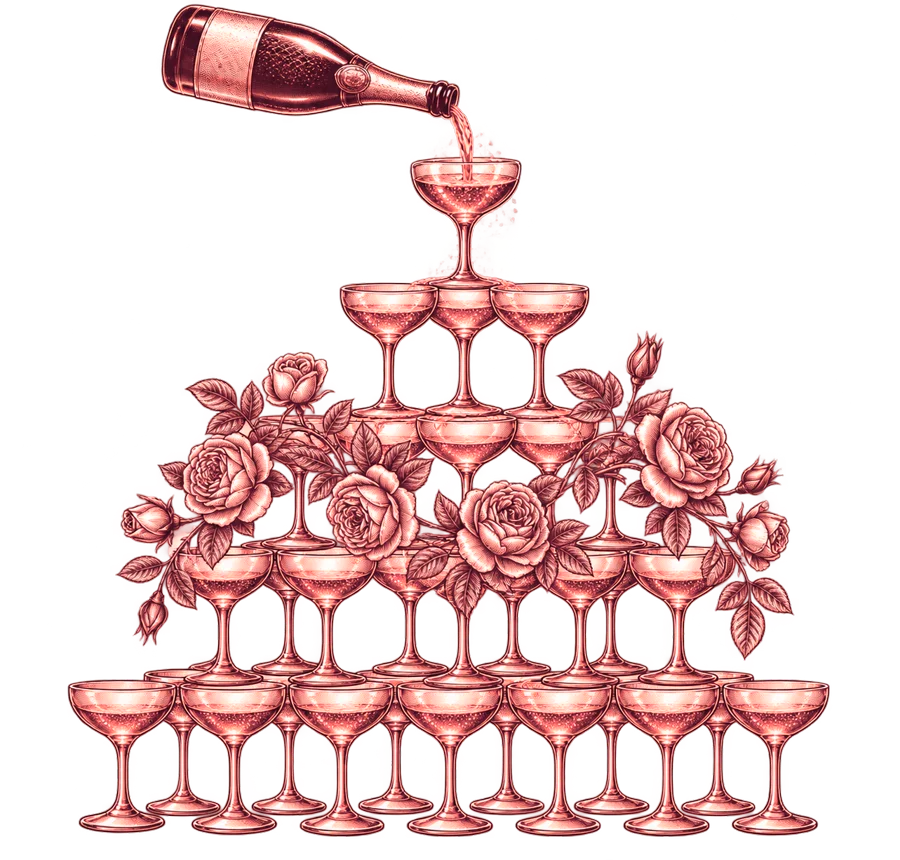
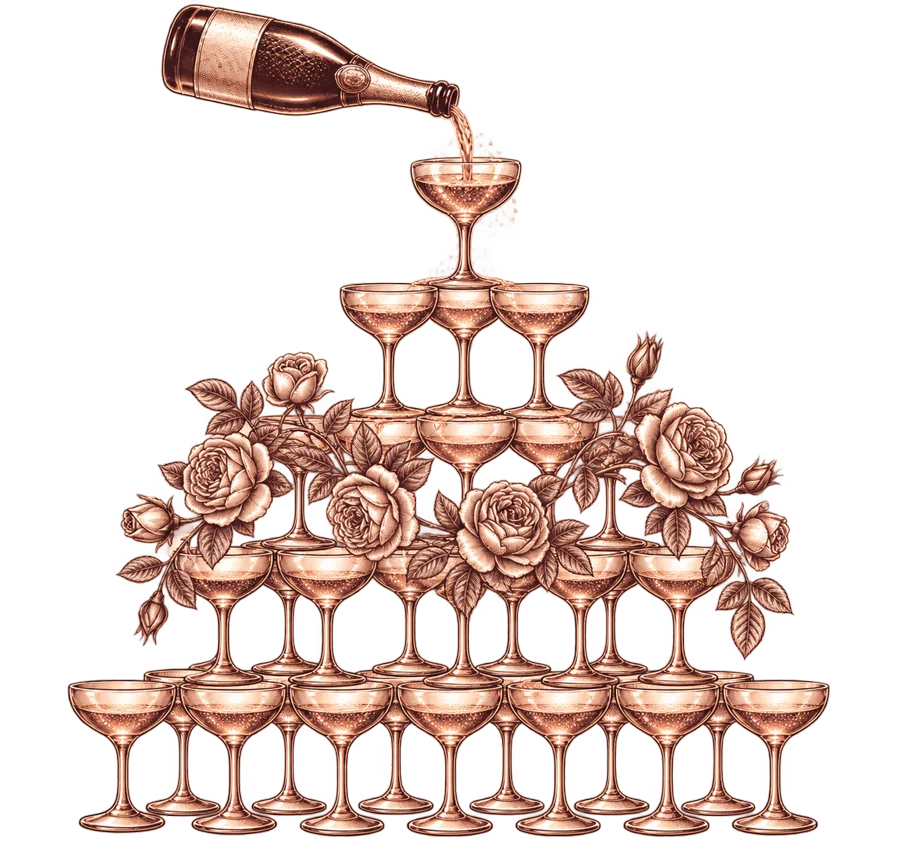
Shift invitation palette to ivory with warm rose gold accents
Replace peach-pink backgrounds with ivory and champagne, warm up the
rose gold accent, and re-tint decor drawings to a less pink rose gold.

diff --git a/src/components/CoupleDetails.tsx b/src/components/CoupleDetails.tsx
@@ -52,7 +52,7 @@ export const CoupleDetails: React.FC = () => {
           </div>
 
           <div className="mb-4 flex flex-col items-center lg:items-end relative z-10">
-            <span className="text-[#9A5B62] uppercase tracking-[0.4em] text-[10px] font-bold mb-3 block">The Groom</span>
+            <span className="text-[#8C6455] uppercase tracking-[0.4em] text-[10px] font-bold mb-3 block">The Groom</span>
             <h3 className="text-4xl sm:text-5xl font-['Cormorant_Garamond',_serif] text-stone-800 mb-2 drop-shadow-sm">Bhagya</h3>
             <p className="text-stone-700 font-century text-xs mb-2"></p>
             <p className="text-stone-500/90 font-serif italic text-base sm:text-lg">Loving Son of Mr. B.P. Keerthirathna &amp; Mrs. Kumudini Piyadigama</p>
@@ -77,7 +77,7 @@ export const CoupleDetails: React.FC = () => {
             {/* Top Left - Arch top */}
             <motion.div 
               whileHover={{ scale: 1.05, rotate: -2, zIndex: 10 }}
-              className="relative w-full h-full rounded-t-full rounded-bl-3xl rounded-br-lg overflow-hidden shadow-[0_15px_30px_rgba(183,110,121,0.2)] border-[3px] border-white transform transition-all duration-500"
+              className="relative w-full h-full rounded-t-full rounded-bl-3xl rounded-br-lg overflow-hidden shadow-[0_15px_30px_rgba(181,128,111,0.2)] border-[3px] border-white transform transition-all duration-500"
             >
               <img src="/pre/WhatsApp Image 2026-10-15 at 09.35.11.jpeg" alt="Couple" className="absolute inset-0 w-full h-full object-cover" />
               <div className="absolute inset-0 bg-brand-plum/10 mix-blend-overlay"></div>
@@ -86,7 +86,7 @@ export const CoupleDetails: React.FC = () => {
             {/* Top Right - Offset down slightly */}
             <motion.div 
               whileHover={{ scale: 1.05, rotate: 2, zIndex: 10 }}
-              className="relative w-full h-full rounded-t-full rounded-br-3xl rounded-bl-lg overflow-hidden shadow-[0_15px_30px_rgba(183,110,121,0.2)] border-[3px] border-white transform translate-y-6 sm:translate-y-8 transition-all duration-500"
+              className="relative w-full h-full rounded-t-full rounded-br-3xl rounded-bl-lg overflow-hidden shadow-[0_15px_30px_rgba(181,128,111,0.2)] border-[3px] border-white transform translate-y-6 sm:translate-y-8 transition-all duration-500"
             >
               <img src="/pre/WhatsApp Image 2026-10-15 at 18.49.44.jpeg" alt="Couple" className="absolute inset-0 w-full h-full object-cover" />
               <div className="absolute inset-0 bg-brand-plum/10 mix-blend-overlay"></div>
@@ -95,7 +95,7 @@ export const CoupleDetails: React.FC = () => {
             {/* Bottom Left - Arch bottom */}
             <motion.div 
               whileHover={{ scale: 1.05, rotate: -1, zIndex: 10 }}
-              className="relative w-full h-full rounded-b-full rounded-tl-3xl rounded-tr-lg overflow-hidden shadow-[0_15px_30px_rgba(183,110,121,0.2)] border-[3px] border-white transform -translate-y-4 sm:-translate-y-6 transition-all duration-500"
+              className="relative w-full h-full rounded-b-full rounded-tl-3xl rounded-tr-lg overflow-hidden shadow-[0_15px_30px_rgba(181,128,111,0.2)] border-[3px] border-white transform -translate-y-4 sm:-translate-y-6 transition-all duration-500"
             >
               <img src="/pre/WhatsApp Image 2026-10-16 at 22.20.27 (1).jpeg" alt="Couple" className="absolute inset-0 w-full h-full object-cover" />
               <div className="absolute inset-0 bg-brand-plum/10 mix-blend-overlay"></div>
@@ -104,7 +104,7 @@ export const CoupleDetails: React.FC = () => {
             {/* Bottom Right - Arch bottom */}
             <motion.div 
               whileHover={{ scale: 1.05, rotate: 3, zIndex: 10 }}
-              className="relative w-full h-full rounded-b-full rounded-tr-3xl rounded-tl-lg overflow-hidden shadow-[0_15px_30px_rgba(183,110,121,0.2)] border-[3px] border-white transform transition-all duration-500"
+              className="relative w-full h-full rounded-b-full rounded-tr-3xl rounded-tl-lg overflow-hidden shadow-[0_15px_30px_rgba(181,128,111,0.2)] border-[3px] border-white transform transition-all duration-500"
             >
               <img src="/pre/WhatsApp Image 2026-10-16 at 22.20.27.jpeg" alt="Couple" className="absolute inset-0 w-full h-full object-cover" />
               <div className="absolute inset-0 bg-brand-plum/10 mix-blend-overlay"></div>
@@ -125,7 +125,7 @@ export const CoupleDetails: React.FC = () => {
           className="text-center lg:text-left flex-1 lg:pl-10 order-2 lg:order-3"
         >
           <div className="mb-4 flex flex-col items-center lg:items-start">
-            <span className="text-[#9A5B62] uppercase tracking-[0.4em] text-[10px] font-bold mb-3 block mt-28 sm:mt-36 lg:mt-0">The Bride</span>
+            <span className="text-[#8C6455] uppercase tracking-[0.4em] text-[10px] font-bold mb-3 block mt-28 sm:mt-36 lg:mt-0">The Bride</span>
             <h3 className="text-4xl sm:text-5xl font-['Cormorant_Garamond',_serif] text-stone-800 mb-2 drop-shadow-sm">Ishanka</h3>
             <p className="text-stone-700 font-century text-xs mb-2"></p>
             <p className="text-stone-500/90 font-serif italic text-base sm:text-lg">Loving Daughter of Mr. Lal Seelawansha &amp; Mrs. Sandhya Amarathunga</p>

diff --git a/src/index.css b/src/index.css
@@ -3,16 +3,16 @@
 
 @theme {
   /* Ivory / Rose Gold / Peach Color Palette */
-  --color-brand-plum: #B76E79;
-  --color-brand-lavender: #F2C4A8;
-  --color-brand-rose: #FBE2D2;
+  --color-brand-plum: #B5806F;
+  --color-brand-lavender: #E6D3BC;
+  --color-brand-rose: #F6EEE0;
   --color-brand-blush: #FFFBF3;
 
   --color-ivory: #FFFBF3;
   --color-champagne: #F7EADF;
-  --color-peach: #F6CDB5;
-  --color-rose-gold: #B76E79;
-  --color-rose-gold-deep: #8E4F58;
+  --color-peach: #F3D9C4;
+  --color-rose-gold: #B5806F;
+  --color-rose-gold-deep: #8C5A4F;
 
   --font-serif: "Cormorant Garamond", serif;
   --font-display: "Great Vibes", cursive;
@@ -74,14 +74,14 @@ img {
 /* Soft paper-like ivory with faint peach light at the edges */
 body {
   background:
-    radial-gradient(1200px 600px at 0% 0%, rgba(246, 205, 181, 0.18), transparent 60%),
-    radial-gradient(1000px 600px at 100% 100%, rgba(183, 110, 121, 0.10), transparent 60%),
+    radial-gradient(1200px 600px at 0% 0%, rgba(236, 220, 196, 0.25), transparent 60%),
+    radial-gradient(1000px 600px at 100% 100%, rgba(214, 190, 160, 0.12), transparent 60%),
     var(--color-ivory);
 }
 
 /* Metallic rose gold text, slowly catching the light */
 .text-rose-gold {
-  background: linear-gradient(110deg, #8E4F58 0%, #B76E79 25%, #E8B4A0 45%, #F6D5C4 50%, #E8B4A0 55%, #B76E79 75%, #8E4F58 100%);
+  background: linear-gradient(110deg, #8C5A4F 0%, #B5806F 25%, #E6C2A6 45%, #F3E2CC 50%, #E6C2A6 55%, #B5806F 75%, #8C5A4F 100%);
   background-size: 250% 100%;
   -webkit-background-clip: text;
   background-clip: text;
@@ -109,25 +109,25 @@ body {
   content: "";
   flex: 1;
   height: 1px;
-  background: linear-gradient(90deg, transparent, rgba(183, 110, 121, 0.7));
+  background: linear-gradient(90deg, transparent, rgba(181, 128, 111, 0.7));
 }
 .rg-divider::after {
-  background: linear-gradient(270deg, transparent, rgba(183, 110, 121, 0.7));
+  background: linear-gradient(270deg, transparent, rgba(181, 128, 111, 0.7));
 }
 .rg-divider > span {
   width: 7px;
   height: 7px;
   transform: rotate(45deg);
-  background: linear-gradient(135deg, #E8B4A0, #B76E79);
-  box-shadow: 0 0 0 4px rgba(246, 205, 181, 0.35);
+  background: linear-gradient(135deg, #E6C2A6, #B5806F);
+  box-shadow: 0 0 0 4px rgba(236, 220, 196, 0.6);
 }
 
 /* Card with a fine rose gold gradient border */
 .rg-card {
   position: relative;
-  background: linear-gradient(180deg, rgba(255, 251, 243, 0.95), rgba(251, 226, 210, 0.55));
+  background: linear-gradient(180deg, rgba(255, 251, 243, 0.95), rgba(246, 238, 224, 0.7));
   border-radius: 1.25rem;
-  box-shadow: 0 18px 40px -18px rgba(142, 79, 88, 0.35);
+  box-shadow: 0 18px 40px -18px rgba(140, 90, 79, 0.35);
 }
 .rg-card::before {
   content: "";
@@ -135,7 +135,7 @@ body {
   inset: 0;
   border-radius: inherit;
   padding: 1px;
-  background: linear-gradient(135deg, #F6D5C4, #B76E79 40%, #F6CDB5 60%, #8E4F58);
+  background: linear-gradient(135deg, #F3E2CC, #B5806F 40%, #EAD5BE 60%, #8C5A4F);
   -webkit-mask: linear-gradient(#000 0 0) content-box, linear-gradient(#000 0 0);
   -webkit-mask-composite: xor;
   mask-composite: exclude;
@@ -144,9 +144,9 @@ body {
 
 /* Rose gold pill button */
 .rg-button {
-  background: linear-gradient(135deg, #8E4F58 0%, #B76E79 45%, #D49A8F 100%);
+  background: linear-gradient(135deg, #8C5A4F 0%, #B5806F 45%, #D1A68E 100%);
   color: #FFFBF3;
-  box-shadow: 0 12px 24px -10px rgba(142, 79, 88, 0.6);
+  box-shadow: 0 12px 24px -10px rgba(140, 90, 79, 0.6);
 }
 .rg-button:hover {
   filter: brightness(1.06);

diff --git a/src/components/Timeline.tsx b/src/components/Timeline.tsx
@@ -9,7 +9,7 @@ const events = [
 
 export const Timeline = () => {
   return (
-    <div className="bg-gradient-to-b from-brand-blush via-[#FDF0E6] to-brand-blush pt-24 pb-48 sm:pt-32 sm:pb-64 relative overflow-hidden flex justify-center w-full">
+    <div className="bg-gradient-to-b from-brand-blush via-[#F8F1E5] to-brand-blush pt-24 pb-48 sm:pt-32 sm:pb-64 relative overflow-hidden flex justify-center w-full">
       {/* Corner florals */}
       <img
         src="/decor/floral-corner.webp"
@@ -50,7 +50,7 @@ export const Timeline = () => {
           transition={{ duration: 0.8, delay: 0.2 }}
           className="text-center mb-14 flex flex-col items-center"
         >
-          <span className="uppercase tracking-[0.5em] text-[10px] sm:text-[11px] font-semibold text-[#9A5B62] mb-3">
+          <span className="uppercase tracking-[0.5em] text-[10px] sm:text-[11px] font-semibold text-[#8C6455] mb-3">
             Friday · 11 December 2026
           </span>
           <h2 className="text-4xl sm:text-5xl font-names text-rose-gold tracking-wide mb-5">The Day</h2>
@@ -60,7 +60,7 @@ export const Timeline = () => {
         {/* Timeline */}
         <div className="relative w-full max-w-md mx-auto">
           {/* Vertical rose gold thread */}
-          <div className="absolute left-[4.75rem] sm:left-[6rem] top-6 bottom-6 w-px bg-gradient-to-b from-transparent via-[#B76E79]/50 to-transparent" />
+          <div className="absolute left-[4.75rem] sm:left-[6rem] top-6 bottom-6 w-px bg-gradient-to-b from-transparent via-[#B5806F]/50 to-transparent" />
 
           {events.map((event, idx) => (
             <motion.div
@@ -76,18 +76,18 @@ export const Timeline = () => {
                 <span className="block font-['Cormorant_Garamond',_serif] text-xl sm:text-2xl text-[#2A2416] tabular-nums font-semibold leading-none">
                   {event.time}
                 </span>
-                <span className="block text-[9px] tracking-[0.3em] text-[#9A5B62] font-semibold mt-1">{event.period}</span>
+                <span className="block text-[9px] tracking-[0.3em] text-[#8C6455] font-semibold mt-1">{event.period}</span>
               </div>
 
               {/* Diamond marker */}
               <div className="flex-shrink-0 w-6 sm:w-8 flex justify-center relative z-10">
-                <span className="w-2.5 h-2.5 rotate-45 bg-gradient-to-br from-[#F6D5C4] to-[#B76E79] ring-4 ring-[#FBE2D2]" />
+                <span className="w-2.5 h-2.5 rotate-45 bg-gradient-to-br from-[#F3E2CC] to-[#B5806F] ring-4 ring-[#F6EEE0]" />
               </div>
 
               {/* Content */}
               <div className="rg-card flex-1 px-5 py-4 sm:px-6 sm:py-5">
                 <h3 className="font-['Cormorant_Garamond',_serif] text-xl sm:text-2xl text-[#2A2416] mb-0.5 font-medium">{event.title}</h3>
-                <p className="text-[11px] sm:text-xs text-[#9A5B62]/80 font-sans tracking-wide">{event.desc}</p>
+                <p className="text-[11px] sm:text-xs text-[#8C6455]/80 font-sans tracking-wide">{event.desc}</p>
               </div>
             </motion.div>
           ))}

diff --git a/src/components/InvitationContent.tsx b/src/components/InvitationContent.tsx
@@ -46,7 +46,7 @@ export function InvitationContent({
         animate={{ opacity: 1, scale: 1 }}
         transition={{ delay: 0.5, duration: 0.6 }}
         onClick={onToggleMusic}
-        className="fixed top-6 right-6 z-50 w-12 sm:w-14 h-12 sm:h-14 bg-[#FFFBF3]/80 backdrop-blur-md rounded-full shadow-[0_8px_30px_rgba(183,110,121,0.25)] flex items-center justify-center border border-[#B76E79]/40 ring-4 ring-[#F6CDB5]/30 text-brand-plum hover:scale-105 transition-all duration-300"
+        className="fixed top-6 right-6 z-50 w-12 sm:w-14 h-12 sm:h-14 bg-[#FFFBF3]/80 backdrop-blur-md rounded-full shadow-[0_8px_30px_rgba(181,128,111,0.25)] flex items-center justify-center border border-[#B5806F]/40 ring-4 ring-[#EAD5BE]/30 text-brand-plum hover:scale-105 transition-all duration-300"
       >
         {isMusicPlaying ? (
           <Music className="w-5 h-5 sm:w-6 sm:h-6" />
@@ -71,7 +71,7 @@ export function InvitationContent({
       </DeferredMount>
 
       <DeferredMount active={active} delay={180} minHeight="40vh">
-        <div className="py-24 sm:py-32 bg-gradient-to-b from-brand-blush via-[#FFF6EE] to-brand-blush relative overflow-hidden">
+        <div className="py-24 sm:py-32 bg-gradient-to-b from-brand-blush via-[#FBF6EC] to-brand-blush relative overflow-hidden">
           <CeremonyDetails event={eventParam} />
         </div>
       </DeferredMount>
@@ -103,7 +103,7 @@ export function InvitationContent({
 
 
       <DeferredMount active={active} delay={520}>
-        <footer className="py-12 bg-gradient-to-b from-brand-blush to-[#FBE2D2]/70 border-t border-brand-lavender/40 text-center relative overflow-hidden mt-10">
+        <footer className="py-12 bg-gradient-to-b from-brand-blush to-[#F6EEE0]/70 border-t border-brand-lavender/40 text-center relative overflow-hidden mt-10">
           <div className="absolute top-1/2 left-1/2 -translate-x-1/2 -translate-y-1/2 w-64 h-64 bg-brand-lavender/10 blur-[80px] rounded-full pointer-events-none" />
           <img
             src="/WhatsApp_Image_2026-10-14_at_20.56.04__1_-removebg-preview.png"
@@ -123,7 +123,7 @@ export function InvitationContent({
             <a 
               target="_blank" 
               rel="noreferrer" 
-              className="text-[#C08A7D] hover:text-brand-plum font-bold underline decoration-[#C08A7D]/40 hover:decoration-brand-plum/40 underline-offset-4 transition-colors" 
+              className="text-[#C49A85] hover:text-brand-plum font-bold underline decoration-[#C49A85]/40 hover:decoration-brand-plum/40 underline-offset-4 transition-colors" 
               href="https://wa.me/94707819074"
             >
               Invitemint

diff --git a/src/components/CeremonyDetails.tsx b/src/components/CeremonyDetails.tsx
@@ -43,7 +43,7 @@ export const CeremonyDetails: React.FC<CeremonyDetailsProps> = ({ event = 'both'
 
               {/* Date */}
               <div className="relative group flex items-center min-h-[48px]">
-                <div className="absolute top-1/2 -translate-y-1/2 -left-[64px] sm:-left-[74px] w-12 h-12 bg-white rounded-full border border-brand-lavender/40 shadow-lg flex items-center justify-center group-hover:border-brand-plum group-hover:shadow-[0_4px_15px_rgba(183,110,121,0.3)] transition-all duration-500">
+                <div className="absolute top-1/2 -translate-y-1/2 -left-[64px] sm:-left-[74px] w-12 h-12 bg-white rounded-full border border-brand-lavender/40 shadow-lg flex items-center justify-center group-hover:border-brand-plum group-hover:shadow-[0_4px_15px_rgba(181,128,111,0.3)] transition-all duration-500">
                   <Calendar className="w-5 h-5 text-brand-plum group-hover:scale-110 transition-transform duration-500" />
                 </div>
                 <div>
@@ -55,7 +55,7 @@ export const CeremonyDetails: React.FC<CeremonyDetailsProps> = ({ event = 'both'
 
               {/* Church Ceremony */}
               <div className="relative group">
-                <div className="absolute top-1/2 -translate-y-1/2 -left-[64px] sm:-left-[74px] w-12 h-12 bg-white rounded-full border border-brand-lavender/40 shadow-lg flex items-center justify-center group-hover:border-brand-plum group-hover:shadow-[0_4px_15px_rgba(183,110,121,0.3)] transition-all duration-500">
+                <div className="absolute top-1/2 -translate-y-1/2 -left-[64px] sm:-left-[74px] w-12 h-12 bg-white rounded-full border border-brand-lavender/40 shadow-lg flex items-center justify-center group-hover:border-brand-plum group-hover:shadow-[0_4px_15px_rgba(181,128,111,0.3)] transition-all duration-500">
                   <Clock className="w-5 h-5 text-brand-plum group-hover:scale-110 transition-transform duration-500" />
                 </div>
                 <div>
@@ -92,7 +92,7 @@ export const CeremonyDetails: React.FC<CeremonyDetailsProps> = ({ event = 'both'
               src="/WhatsApp_Image_2026-10-14_at_20.56.04-removebg-preview.png"
               alt="Traditional Kandyan wedding couple"
               loading="lazy"
-              className="w-full h-auto drop-shadow-[0_20px_30px_rgba(183,110,121,0.25)]"
+              className="w-full h-auto drop-shadow-[0_20px_30px_rgba(181,128,111,0.25)]"
             />
           </div>
         </motion.div>

diff --git a/src/components/Location.tsx b/src/components/Location.tsx
@@ -38,7 +38,7 @@ export const Location: React.FC<LocationProps> = ({ event = 'both' }) => {
                 transition={{ duration: 1.2, ease: "easeOut" }}
                 className={`w-full lg:w-[45%] flex z-20 ${isReversed ? 'lg:-translate-x-12' : 'lg:translate-x-12'}`}
               >
-                <div className="w-full h-full bg-white/90 backdrop-blur-2xl p-10 sm:p-14 lg:p-16 rounded-[2.5rem] shadow-[0_30px_60px_rgba(183,110,121,0.15)] border border-brand-lavender/30 relative overflow-hidden group flex flex-col justify-center">
+                <div className="w-full h-full bg-white/90 backdrop-blur-2xl p-10 sm:p-14 lg:p-16 rounded-[2.5rem] shadow-[0_30px_60px_rgba(181,128,111,0.15)] border border-brand-lavender/30 relative overflow-hidden group flex flex-col justify-center">
                   
                   {/* Elegant top border gradient */}
                   <div className="absolute top-0 left-0 w-full h-2 bg-gradient-to-r from-brand-rose via-brand-lavender to-brand-plum" />
@@ -76,7 +76,7 @@ export const Location: React.FC<LocationProps> = ({ event = 'both' }) => {
                           rel="noopener noreferrer"
                           className="rg-button inline-flex items-center gap-3 px-8 py-4 rounded-full font-sans tracking-[0.2em] text-xs uppercase transition-all duration-300 active:scale-95 group/btn"
                         >
-                          <Navigation className="w-4 h-4 text-[#FBE2D2] group-hover/btn:rotate-45 transition-transform duration-300" />
+                          <Navigation className="w-4 h-4 text-[#F6EEE0] group-hover/btn:rotate-45 transition-transform duration-300" />
                           Open Live Location
                         </a>
                       </div>

diff --git a/src/components/RSVPForm.tsx b/src/components/RSVPForm.tsx
@@ -68,7 +68,7 @@ export const RSVPForm: React.FC<RSVPFormProps> = ({ inviteeName = '', eventName 
         whileInView={{ opacity: 1, y: 0 }}
         viewport={{ once: true }}
         transition={{ duration: 1, ease: "easeOut" }}
-        className="glass p-6 sm:p-10 lg:p-12 rounded-[2.5rem] sm:rounded-[3rem] border border-white/40 shadow-[0_30px_60px_rgba(183,110,121,0.1)] relative overflow-hidden bg-white/60 backdrop-blur-3xl lg:flex items-center gap-10 lg:gap-16"
+        className="glass p-6 sm:p-10 lg:p-12 rounded-[2.5rem] sm:rounded-[3rem] border border-white/40 shadow-[0_30px_60px_rgba(181,128,111,0.1)] relative overflow-hidden bg-white/60 backdrop-blur-3xl lg:flex items-center gap-10 lg:gap-16"
       >
         {/* Soft top border line */}
         <div className="absolute top-0 left-0 w-full h-1.5 bg-gradient-to-r from-brand-rose via-brand-plum/80 to-brand-rose" />
@@ -109,7 +109,7 @@ export const RSVPForm: React.FC<RSVPFormProps> = ({ inviteeName = '', eventName 
                 exit={{ opacity: 0, scale: 0.95 }}
                 className="text-center py-16 px-8 bg-white/70 rounded-[2rem] border border-white shadow-xl"
               >
-                <div className="w-24 h-24 bg-[#FBE2D2]/80 rounded-full flex items-center justify-center mx-auto mb-8 shadow-inner border border-[#F2C4A8]">
+                <div className="w-24 h-24 bg-[#F6EEE0]/80 rounded-full flex items-center justify-center mx-auto mb-8 shadow-inner border border-[#E6D3BC]">
                   <CheckCircle className="w-12 h-12 text-brand-plum" />
                 </div>
                 <h3 className="text-4xl font-display text-stone-800 mb-4 tracking-tight drop-shadow-sm">With Gratitude</h3>

diff --git a/src/components/Countdown.tsx b/src/components/Countdown.tsx
@@ -38,7 +38,7 @@ export const Countdown: React.FC<CountdownProps> = ({ targetDate }) => {
           whileInView={{ opacity: 1, y: 0 }}
           viewport={{ once: true }}
           transition={{ duration: 0.8 }}
-          className="uppercase tracking-[0.4em] text-[10px] sm:text-xs font-semibold mb-4 text-[#9A5B62] text-center font-['Georgia',_serif]"
+          className="uppercase tracking-[0.4em] text-[10px] sm:text-xs font-semibold mb-4 text-[#8C6455] text-center font-['Georgia',_serif]"
         >
           The countdown
         </motion.span>
@@ -73,7 +73,7 @@ export const Countdown: React.FC<CountdownProps> = ({ targetDate }) => {
                   {String(item.value).padStart(2, '0')}
                 </span>
               </div>
-              <span className="font-['Cormorant_Garamond',_serif] text-[9px] sm:text-[11px] uppercase tracking-[0.3em] font-semibold text-[#9A5B62]">
+              <span className="font-['Cormorant_Garamond',_serif] text-[9px] sm:text-[11px] uppercase tracking-[0.3em] font-semibold text-[#8C6455]">
                 {item.label}
               </span>
             </div>

diff --git a/src/components/Hero.tsx b/src/components/Hero.tsx
@@ -91,7 +91,7 @@ export const Hero: React.FC<HeroProps> = ({ event = 'both', inviteeName, onIntro
             transition={{ duration: 1 }}
             className="absolute inset-0 z-10 pointer-events-none"
           >
-            <div className="absolute inset-5 sm:inset-8 border border-brand-plum/30 rounded-3xl shadow-[inset_0_0_30px_rgba(183,110,121,0.1)]" />
+            <div className="absolute inset-5 sm:inset-8 border border-brand-plum/30 rounded-3xl shadow-[inset_0_0_30px_rgba(181,128,111,0.1)]" />
             <div className="absolute inset-6 sm:inset-9 border border-brand-plum/15 rounded-[1.3rem]" />
           </motion.div>
         )}
